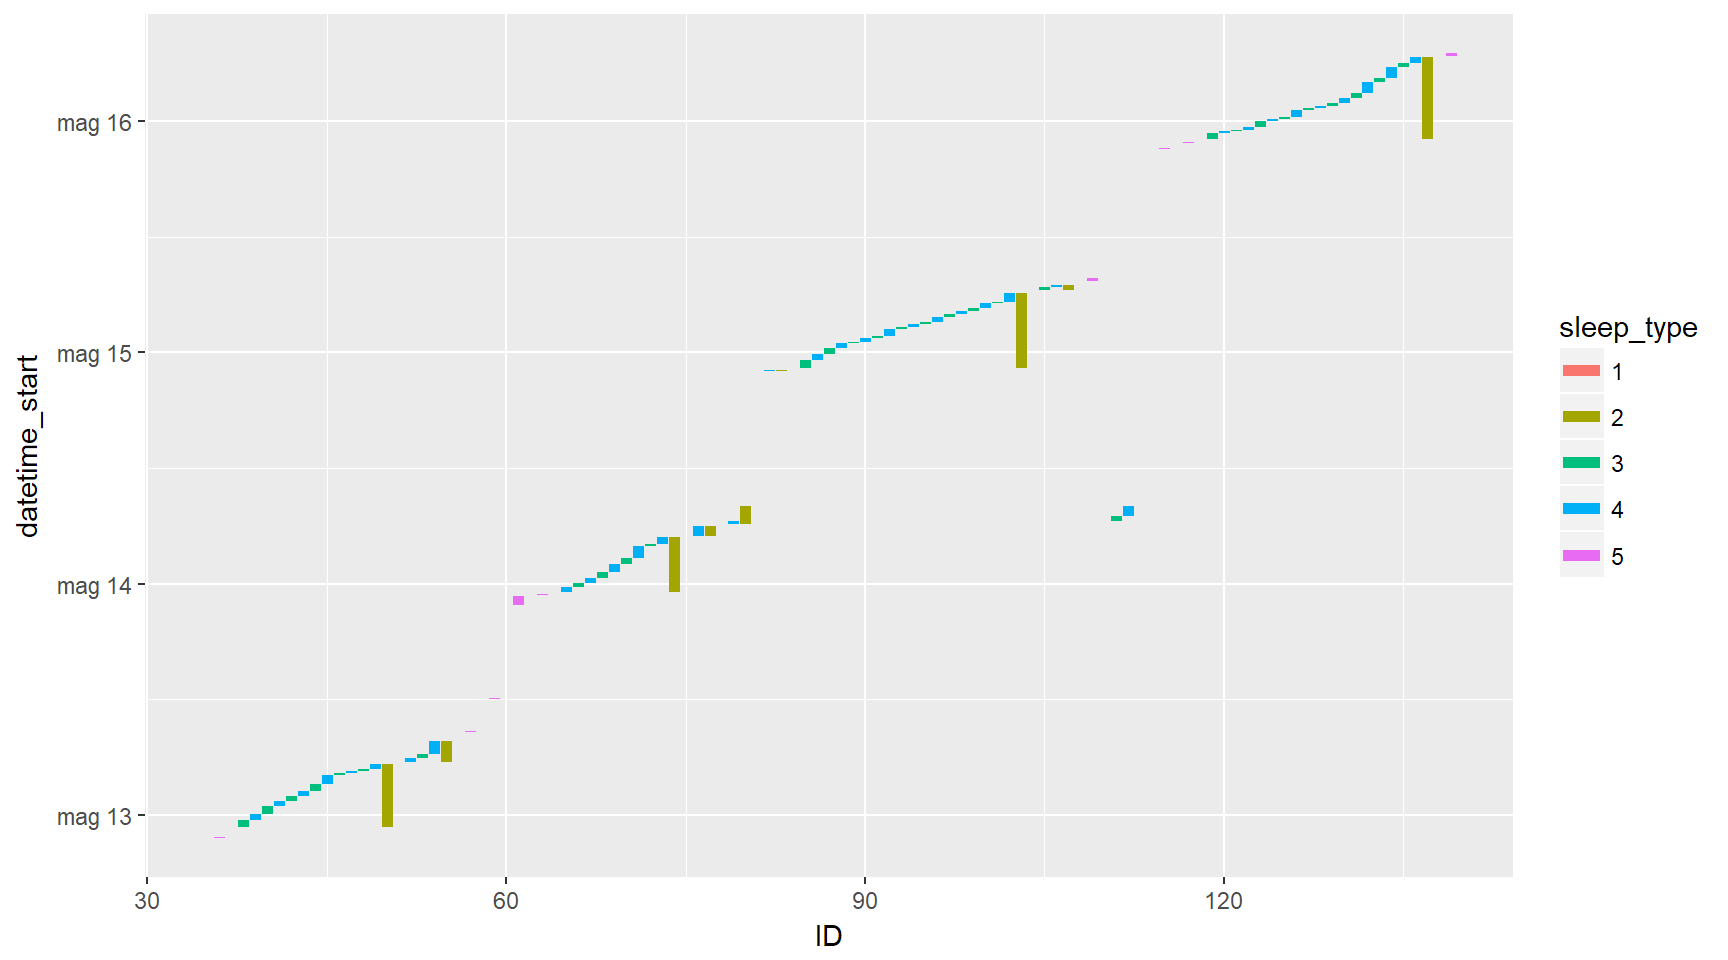
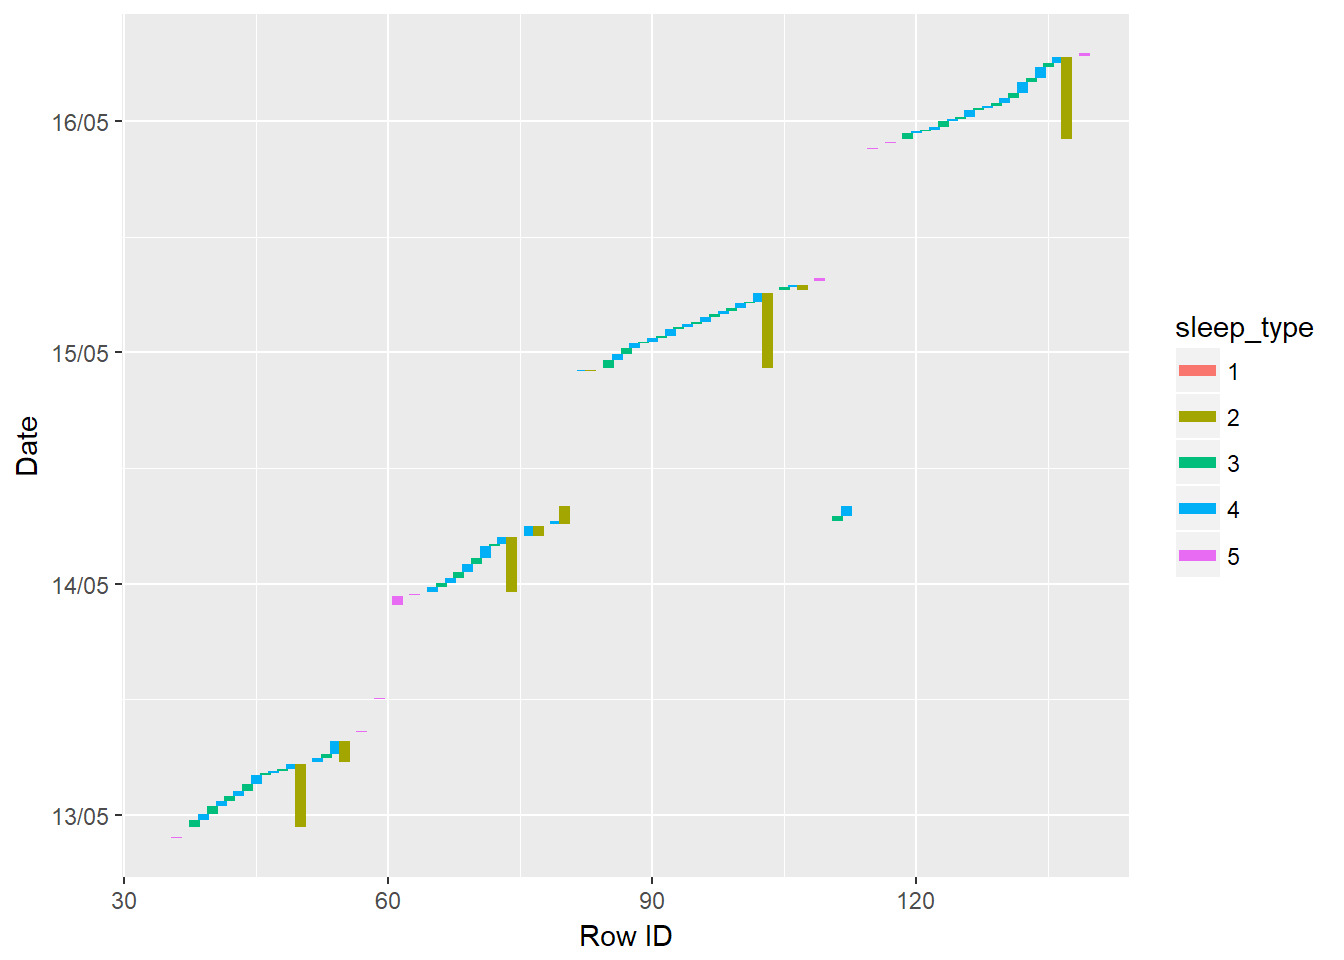
Better figures

diff --git a/docs/2_health_data.html b/docs/2_health_data.html
@@ -396,9 +396,11 @@ df.v3_sleep_data <span class="op">%&gt;%</span><span class="st"> </span>head</co
 <div class="sourceCode"><pre class="sourceCode r"><code class="sourceCode r">df.v3_sleep_data <span class="op">%&gt;%</span><span class="st"> </span>
 <span class="st">   </span><span class="kw">filter</span>(year <span class="op">==</span><span class="st"> </span><span class="dv">2017</span>) <span class="op">%&gt;%</span><span class="st"> </span>
 <span class="st">   </span><span class="kw">ggplot</span>() <span class="op">+</span><span class="st"> </span>
-<span class="st">   </span><span class="kw">geom_segment</span>(<span class="kw">aes</span>(<span class="dt">x =</span> ID, <span class="dt">y =</span> datetime_start, <span class="dt">xend =</span> ID, <span class="dt">yend =</span> datetime_end, <span class="dt">col =</span> sleep_type), <span class="dt">lwd =</span> <span class="dv">2</span>)</code></pre></div>
-<p><img src="2_health_data_files/figure-html/sleep-segments-1.png" width="864" /></p>
-<p>Guess:</p>
+<span class="st">   </span><span class="kw">geom_segment</span>(<span class="kw">aes</span>(<span class="dt">x =</span> ID, <span class="dt">y =</span> datetime_start, <span class="dt">xend =</span> ID, <span class="dt">yend =</span> datetime_end, <span class="dt">col =</span> sleep_type), <span class="dt">lwd =</span> <span class="dv">2</span>) <span class="op">+</span>
+<span class="st">   </span><span class="kw">scale_y_datetime</span>(<span class="dt">date_labels =</span> <span class="st">&#39;%d/%m&#39;</span>, <span class="dt">date_breaks =</span> <span class="st">&#39;1 day&#39;</span>) <span class="op">+</span>
+<span class="st">   </span><span class="kw">labs</span>(<span class="dt">x =</span> <span class="st">&#39;Row ID&#39;</span>, <span class="dt">y =</span> <span class="st">&#39;Date&#39;</span>)</code></pre></div>
+<p><img src="2_health_data_files/figure-html/sleep-segments-1.png" width="672" /></p>
+<p>Guessing sleep types:</p>
 <ul>
 <li><code>sleep_type = 5</code>: awake</li>
 <li><code>sleep_type = 2</code>: not awake</li>
@@ -410,10 +412,10 @@ df.v3_sleep_data <span class="op">%&gt;%</span><span class="st"> </span>head</co
 <span class="st">   </span><span class="kw">summarize</span>(<span class="dt">total_duration =</span> <span class="kw">sum</span>(duration_segment)) <span class="op">%&gt;%</span><span class="st"> </span>
 <span class="st">   </span><span class="kw">filter</span>(<span class="kw">year</span>(datetime_day) <span class="op">==</span><span class="st"> </span><span class="dv">2017</span>) <span class="op">%&gt;%</span>
 <span class="st">   </span><span class="kw">ggplot</span>() <span class="op">+</span>
-<span class="st">   </span><span class="kw">geom_col</span>(<span class="kw">aes</span>(<span class="dt">x =</span> <span class="kw">as.character</span>(datetime_day), <span class="dt">y =</span> total_duration <span class="op">/</span><span class="st"> </span><span class="kw">dhours</span>(<span class="dv">1</span>), <span class="dt">fill =</span> <span class="kw">factor</span>(sleep_type)), 
+<span class="st">   </span><span class="kw">geom_col</span>(<span class="kw">aes</span>(<span class="dt">x =</span> <span class="kw">as.character</span>(datetime_day), <span class="dt">y =</span> total_duration <span class="op">/</span><span class="st"> </span><span class="kw">dhours</span>(<span class="dv">1</span>), <span class="dt">fill =</span> sleep_type), 
             <span class="dt">position =</span> <span class="st">&#39;dodge&#39;</span>) <span class="op">+</span>
 <span class="st">   </span><span class="kw">labs</span>(<span class="dt">x =</span> <span class="st">&#39;Date&#39;</span>, <span class="dt">y =</span> <span class="st">&#39;Duration [h]&#39;</span>) <span class="op">+</span><span class="st"> </span><span class="kw">coord_cartesian</span>(<span class="dt">ylim =</span> <span class="kw">c</span>(<span class="dv">0</span>, <span class="dv">12</span>), <span class="dt">expand =</span> <span class="ot">FALSE</span>)</code></pre></div>
-<p><img src="2_health_data_files/figure-html/unnamed-chunk-1-1.png" width="864" /></p>
+<p><img src="2_health_data_files/figure-html/unnamed-chunk-1-1.png" width="672" /></p>
 </div>
 </div>
 <div id="prometheus" class="section level2">
@@ -448,7 +450,7 @@ df.prometheus.act.right <span class="op">%&gt;%</span><span class="st"> </span><
    <span class="dt">ignore_row_order =</span> <span class="ot">TRUE</span>, <span class="dt">ignore_col_order =</span> <span class="ot">TRUE</span>, <span class="dt">conver =</span> <span class="ot">TRUE</span>
 )
 diff.prometheus</code></pre></div>
-<pre><code>## [1] &quot;Rows in x but not y: 52, 53, 49, 51, 50. Rows in y but not x: 61, 60, 57, 58, 59. &quot;</code></pre>
+<pre><code>## [1] &quot;Rows in x but not y: 53, 52, 50, 51, 49. Rows in y but not x: 57, 59, 61, 60, 58. &quot;</code></pre>
 <p>Row differences:</p>
 <div class="sourceCode"><pre class="sourceCode r"><code class="sourceCode r"><span class="co"># &quot;Rows in x but not y: 51, 53, 50, 52, 49. Rows in y but not x: 58, 59, 60, 57, 61. &quot;</span>
 idx.unique.left &lt;-<span class="st"> </span><span class="kw">c</span>(<span class="dv">51</span>, <span class="dv">53</span>, <span class="dv">50</span>, <span class="dv">52</span>, <span class="dv">49</span>)
@@ -738,7 +740,7 @@ Save this:</p>
 <span class="st">   </span><span class="kw">ggplot</span>() <span class="op">+</span><span class="st"> </span>
 <span class="st">   </span><span class="kw">geom_point</span>(<span class="kw">aes</span>(<span class="dt">x =</span> datetime, <span class="dt">y =</span> <span class="kw">dseconds</span>(ZDURATION) <span class="op">/</span><span class="st"> </span><span class="kw">dminutes</span>(<span class="dv">1</span>), <span class="dt">col =</span> ZACTIVITYTYPE)) <span class="op">+</span><span class="st"> </span>
 <span class="st">   </span><span class="kw">labs</span>(<span class="dt">x =</span> <span class="st">&#39;Date&#39;</span>, <span class="dt">y =</span> <span class="st">&#39;Duration [min]&#39;</span>)</code></pre></div>
-<p><img src="2_health_data_files/figure-html/unnamed-chunk-8-1.png" width="864" /></p>
+<p><img src="2_health_data_files/figure-html/unnamed-chunk-8-1.png" width="672" /></p>
 <p>As segments:</p>
 <div class="sourceCode"><pre class="sourceCode r"><code class="sourceCode r">df.prometheus.act.left <span class="op">%&gt;%</span><span class="st"> </span>
 <span class="st">   </span><span class="kw">ggplot</span>() <span class="op">+</span>
@@ -750,7 +752,7 @@ Save this:</p>
 <span class="st">   </span><span class="kw">scale_y_datetime</span>(<span class="dt">date_labels =</span> <span class="st">&#39;%H:%M&#39;</span>, <span class="dt">limits =</span> (<span class="kw">as.POSIXct</span>(<span class="st">&#39;1970-01-01&#39;</span>, <span class="dt">tz =</span> <span class="st">&#39;GMT&#39;</span>) <span class="op">+</span><span class="st"> </span><span class="kw">ddays</span>(<span class="kw">c</span>(<span class="dv">0</span>,<span class="dv">1</span>) )), <span class="dt">expand =</span> <span class="kw">c</span>(<span class="dv">0</span>,<span class="dv">0</span>)) <span class="op">+</span>
 <span class="st">   </span><span class="kw">scale_x_date</span>(<span class="dt">date_labels =</span> <span class="st">&#39;%d/%m&#39;</span>, <span class="dt">date_breaks =</span> <span class="st">&#39;2 days&#39;</span>) <span class="op">+</span>
 <span class="st">   </span><span class="kw">labs</span>(<span class="dt">x =</span> <span class="st">&#39;Date&#39;</span>, <span class="dt">y =</span> <span class="st">&#39;Time of the day&#39;</span>)</code></pre></div>
-<p><img src="2_health_data_files/figure-html/unnamed-chunk-9-1.png" width="864" /></p>
+<p><img src="2_health_data_files/figure-html/unnamed-chunk-9-1.png" width="672" /></p>
 </div>
 <div id="binary-data" class="section level3">
 <h3>Binary data</h3>
